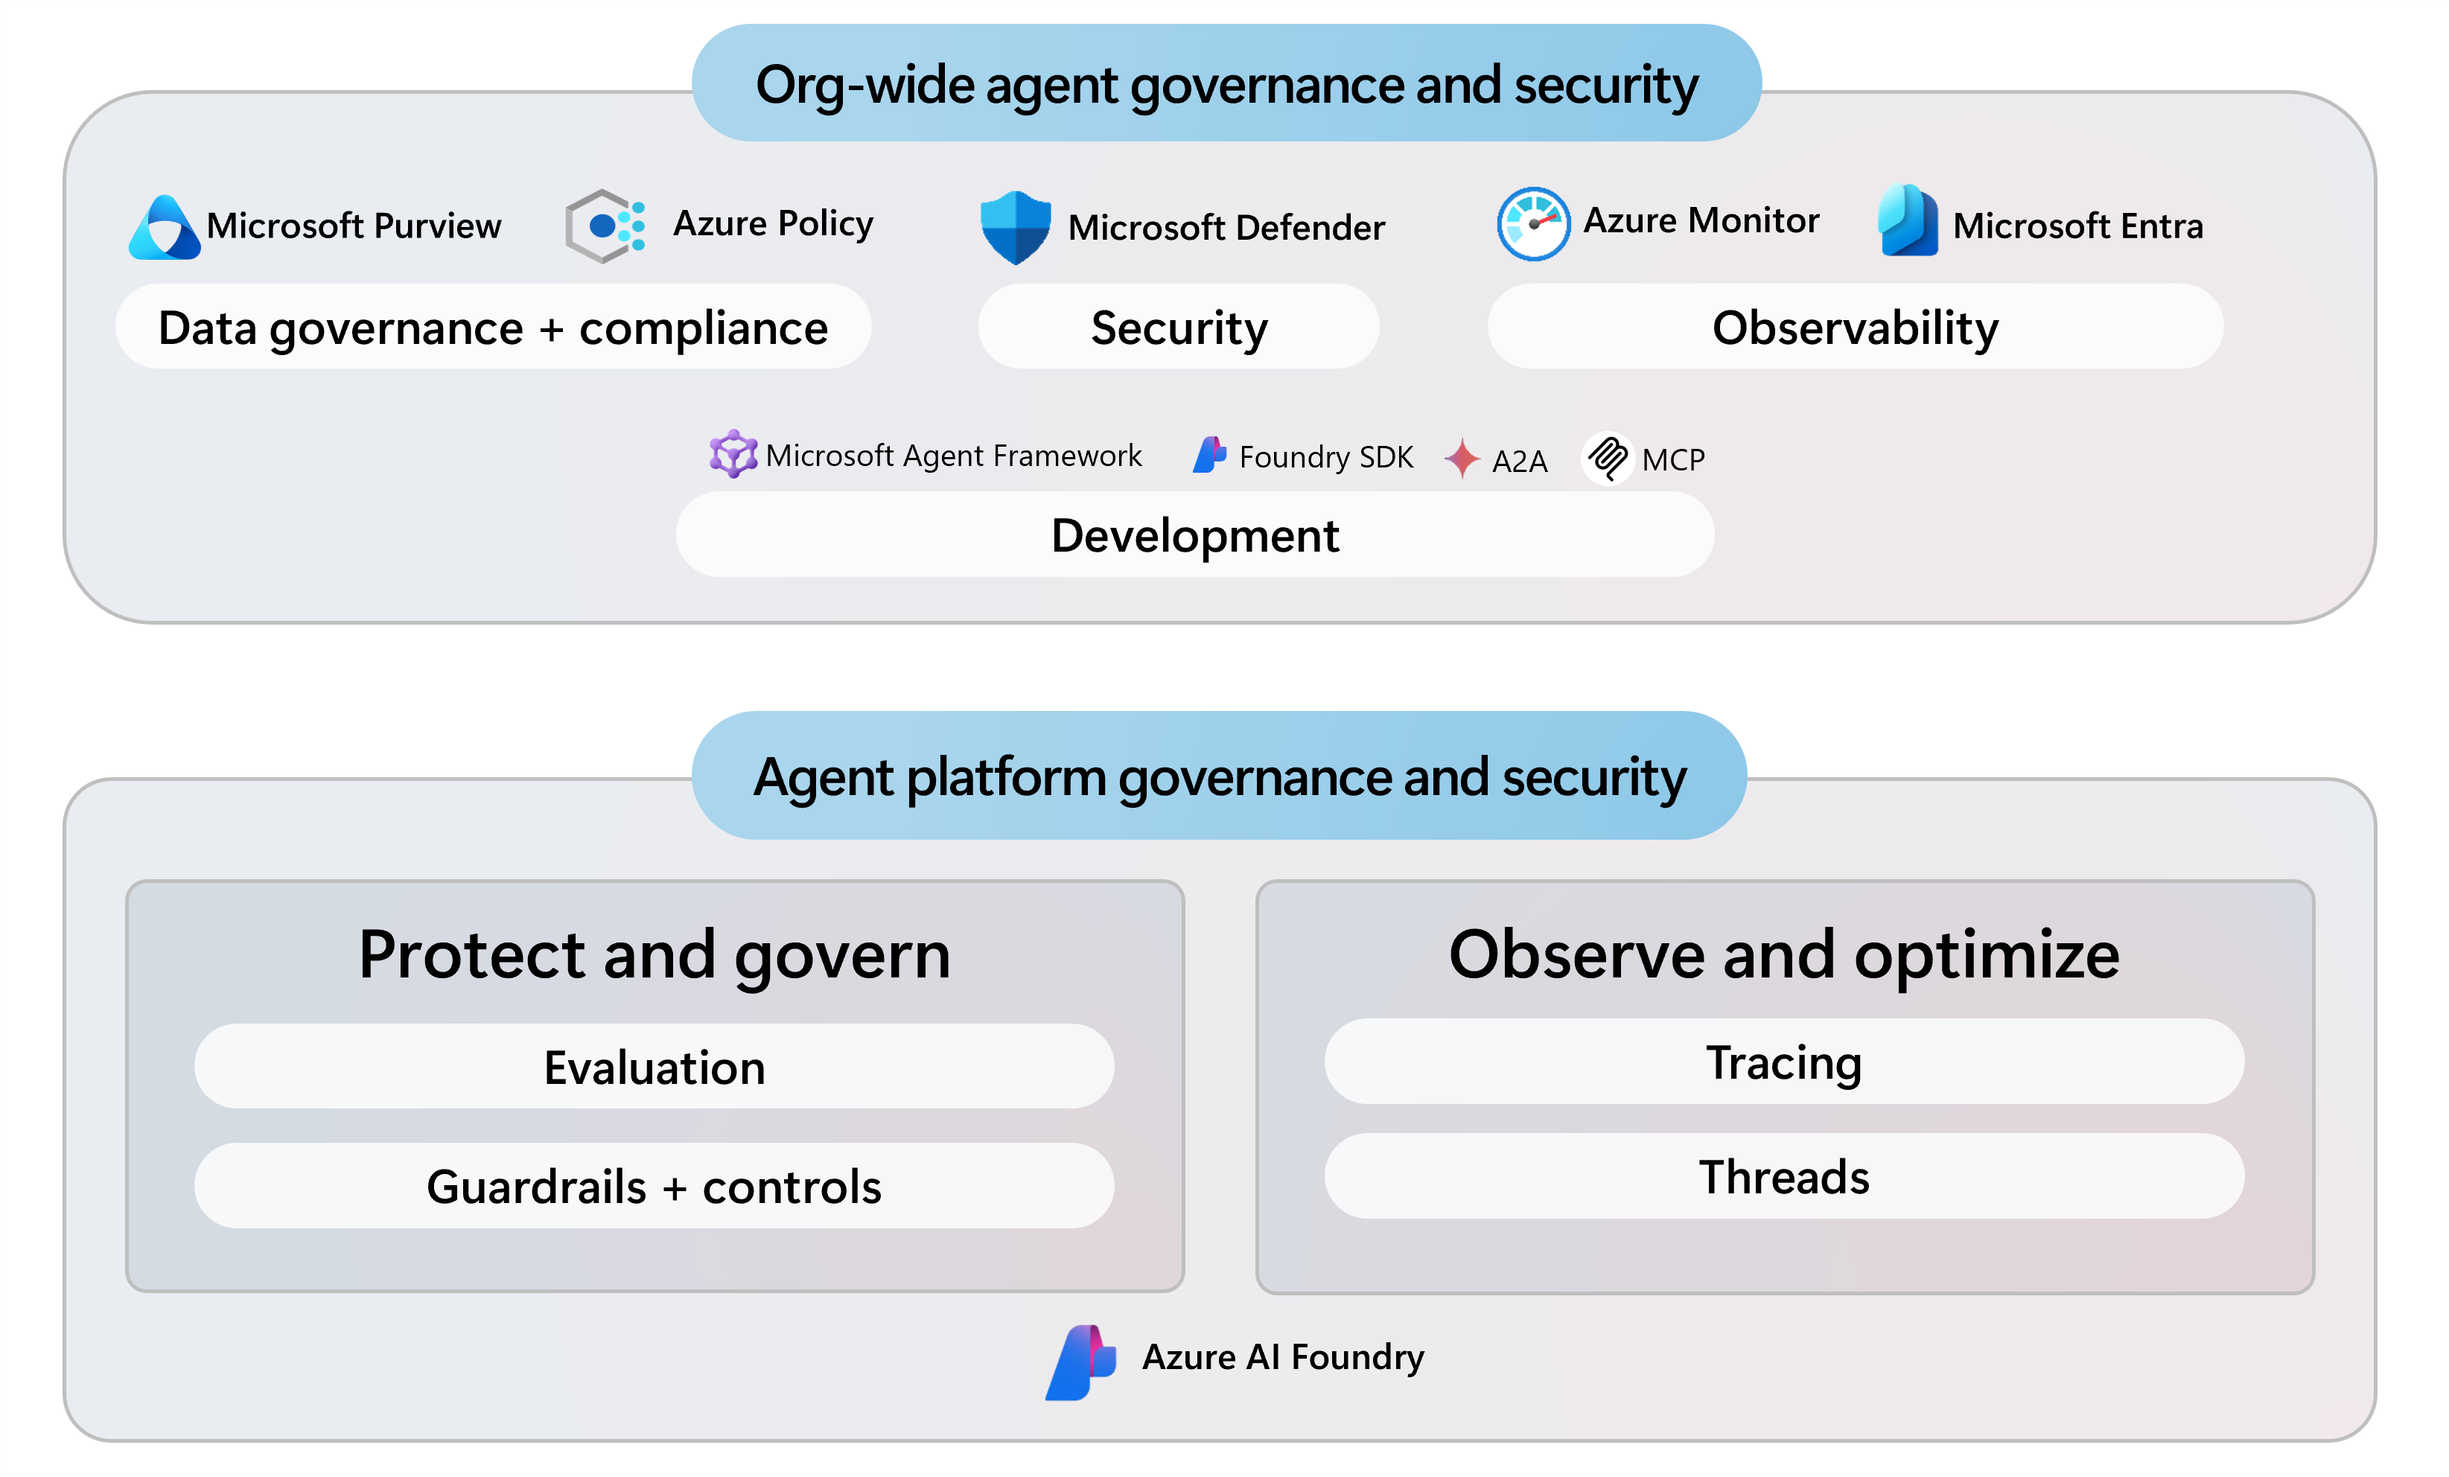
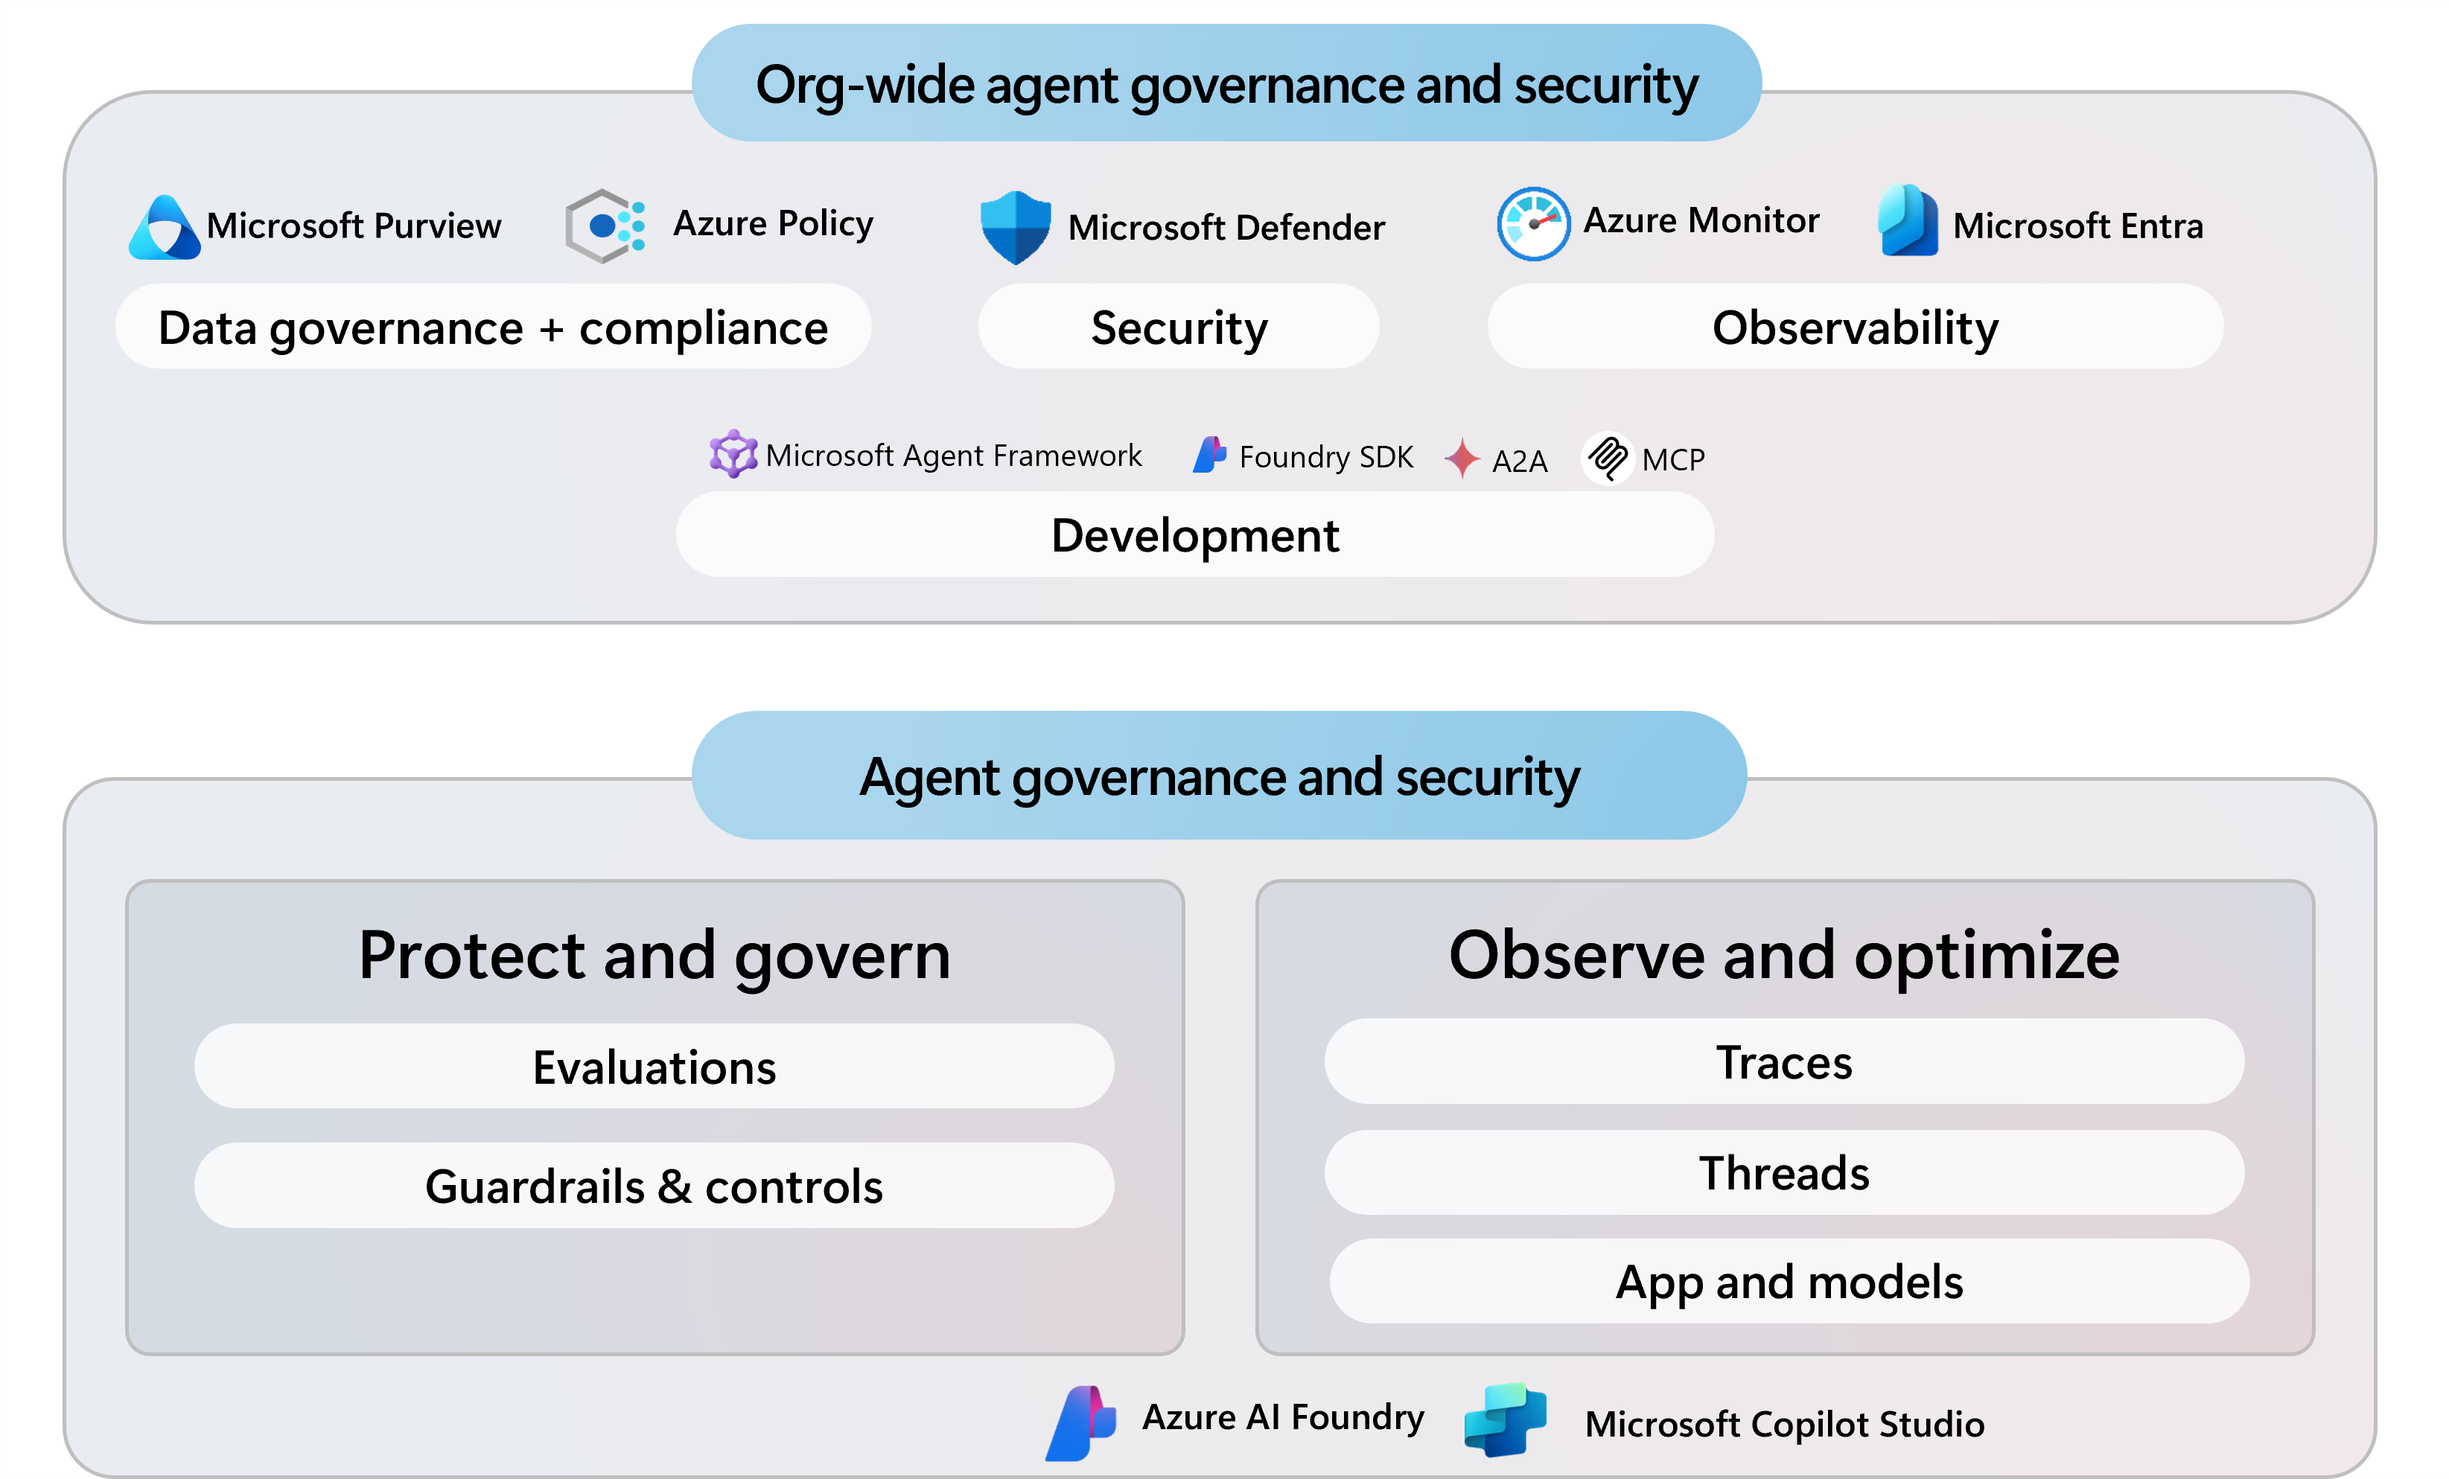
update

diff --git a/docs/ai-agents/build-secure.md b/docs/ai-agents/build-secure.md
@@ -155,13 +155,14 @@ The agent needs observability tools early. Capture key performance metrics such 
 
 To improve agent performance and reliability, organizations must monitor how agents behave in real-world scenarios:
 
-- **Use traces**: Capture the journey of a request through the application. This includes function calls, values, and system events.
-- **Review threads**: Threads show how agents process instructions and help teams refine agent logic.
-- **Monitor models and resource usage**: Track how much computing power agents consume and whether they operate efficiently.
+- **[Use traces](/azure/ai-foundry/how-to/develop/trace-agents-sdk)**: Capture the journey of a request through the application. This includes function calls, values, and system events.
+- **[Review threads](/azure/ai-foundry/agents/concepts/threads-runs-messages#threads)**: Threads show how agents process instructions and help teams refine agent logic.
+- **[Monitor applications](/azure/ai-foundry/how-to/monitor-applications)**: Track analyze, and optimize your application’s performance and operational health in real time.
+- **[Monitor models](/azure/ai-foundry/foundry-models/how-to/monitor-models)**: Get metrics on your model deployments such as a total requests, total token count (prompt tokens + completion tokens).
 
-**Azure AI Foundry:** [Monitor the Agent Service](/azure/ai-foundry/agents/how-to/metrics). Debug execution by [viewing trace results](/azure/ai-foundry/how-to/develop/trace-agents-sdk) for detailed analysis. [Continuously evaluating agents](/azure/ai-foundry/how-to/continuous-evaluation-agents) and [evaluating in GitHub Actions](/azure/ai-foundry/how-to/evaluation-github-action) or [Azure DevOps](/azure/ai-foundry/how-to/evaluation-azure-devops). Use the [AI red teaming scans](/azure/ai-foundry/how-to/develop/run-scans-ai-red-teaming-agent) locally during development or [in the cloud](/azure/ai-foundry/how-to/develop/run-ai-red-teaming-cloud) for pre-deployment testing.
+**Azure AI Foundry:** [Monitor the Agent Service](/azure/ai-foundry/agents/how-to/metrics).
 
-**Microsoft Copilot Studio:** Use [analytics](/microsoft-copilot-studio/analytics-overview) to understand agent and [connect to Azure Application Insights](/microsoft-copilot-studio/advanced-bot-framework-composer-capture-telemetry) for custom telemetry and real-time diagnostics.
+**Microsoft Copilot Studio:** Use [analytics](/microsoft-copilot-studio/analytics-overview) and [connect to Azure Application Insights](/microsoft-copilot-studio/advanced-bot-framework-composer-capture-telemetry) for custom telemetry.
 
 ## Next step
 
